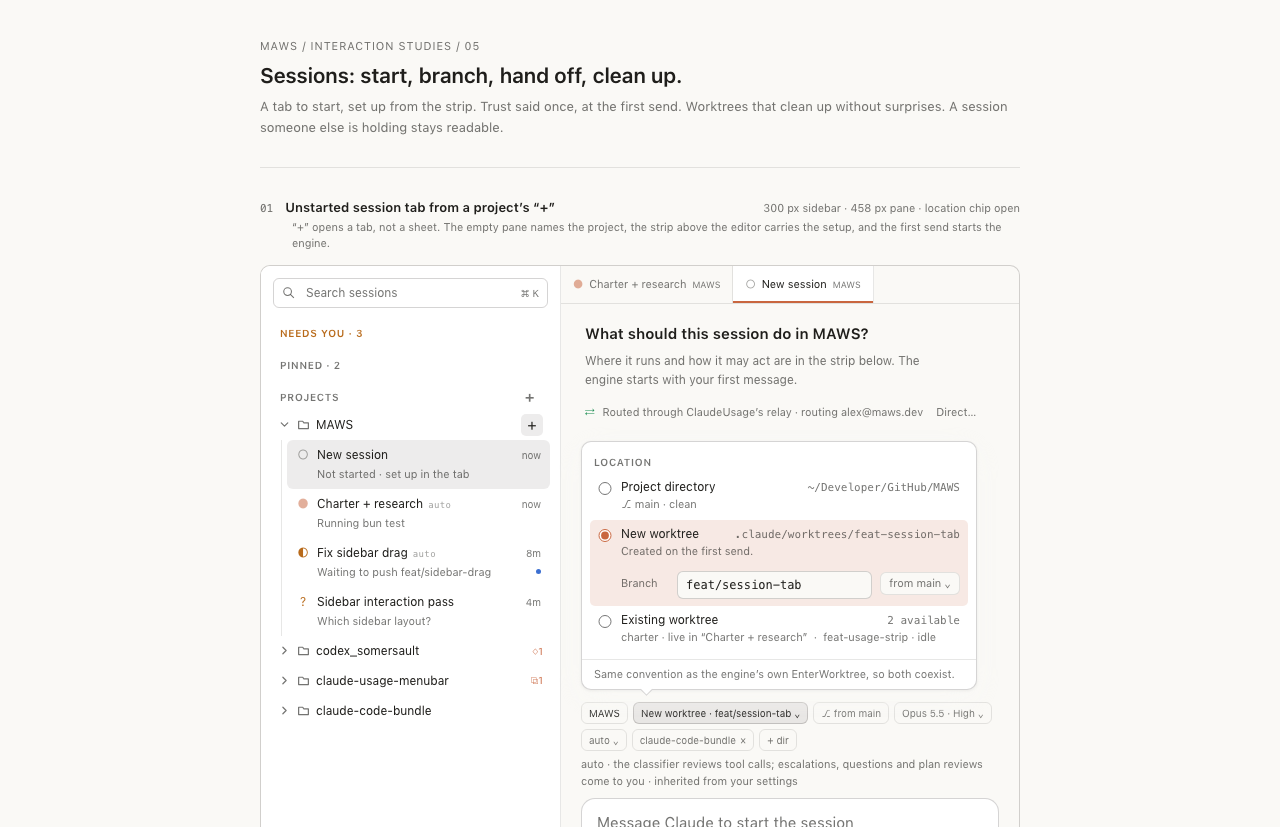
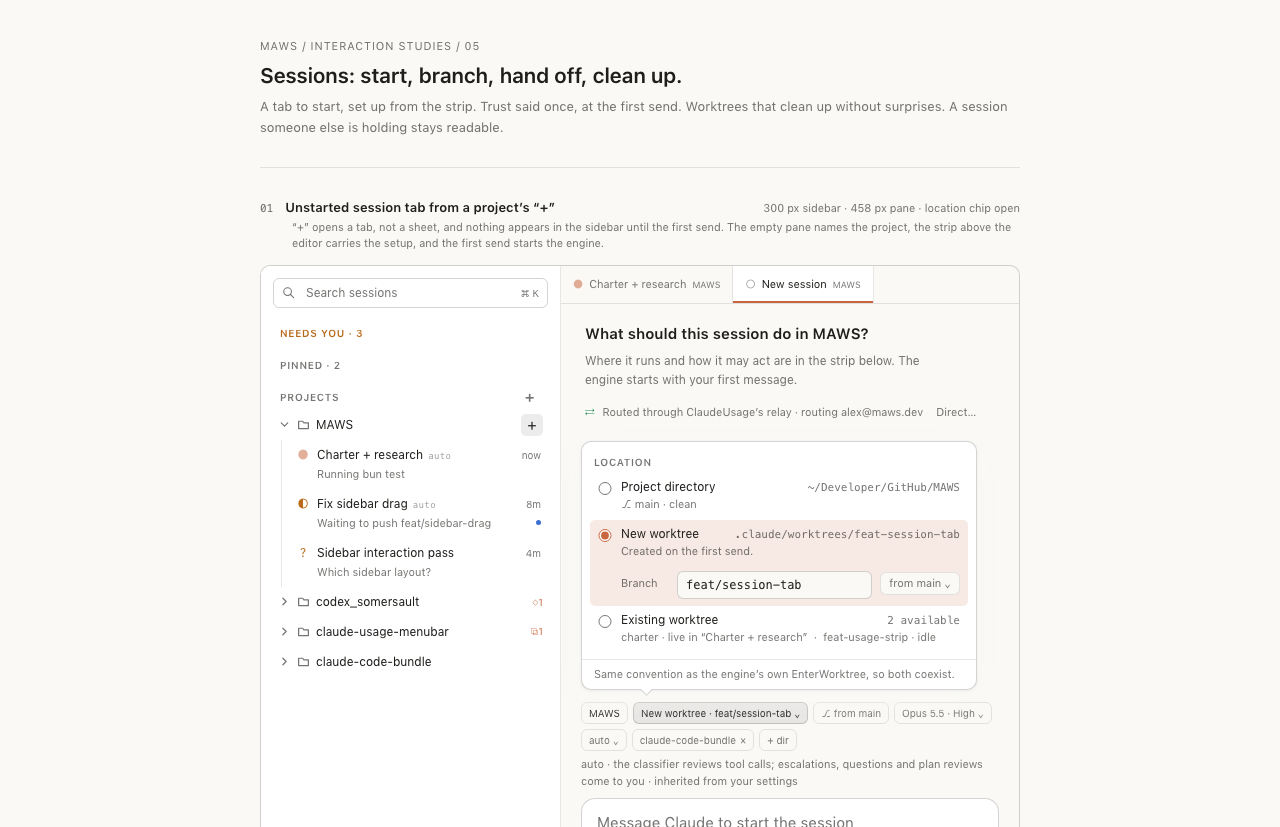
Mockup 05: unstarted session is a tab only, no sidebar row until the first send

diff --git a/mockups/05-sessions.html b/mockups/05-sessions.html
@@ -284,7 +284,7 @@ figcaption .dimension { margin-left: auto; color: var(--fg-muted); font-size: 11
 
 <figure class="vignette" id="new-session">
  <figcaption><span class="number">01</span><h2>Unstarted session tab from a project’s “+”</h2><span class="dimension">300 px sidebar · 458 px pane · location chip open</span></figcaption>
- <p class="rationale">“+” opens a tab, not a sheet. The empty pane names the project, the strip above the editor carries the setup, and the first send starts the engine.</p>
+ <p class="rationale">“+” opens a tab, not a sheet, and nothing appears in the sidebar until the first send. The empty pane names the project, the strip above the editor carries the setup, and the first send starts the engine.</p>
  <div class="frame tab-frame">
   <aside class="sidebar" aria-label="Session sidebar">
    <label class="search"><svg viewBox="0 0 20 20" fill="none" stroke="currentColor" stroke-width="1.5" aria-hidden="true"><use href="#search"/></svg><input type="search" aria-label="Search sessions" placeholder="Search sessions"><kbd>⌘ K</kbd></label>
@@ -293,7 +293,6 @@ figcaption .dimension { margin-left: auto; color: var(--fg-muted); font-size: 11
    <div class="section-heading label" style="margin-top:10px">Projects <span class="icon" aria-hidden="true">+</span></div>
    <div class="project-head"><svg><use href="#down"/></svg><svg><use href="#folder"/></svg><span class="name">MAWS</span><span class="icon pressed" aria-label="New session in MAWS (opened)">+</span></div>
    <div class="project-sessions">
-    <div class="session selected" aria-current="page"><span class="session-glyph g-idle" aria-label="Not started">○</span><span><span class="session-title"><span class="truncate">New session</span></span><span class="session-sub">Not started · set up in the tab</span></span><span class="session-age">now</span></div>
     <div class="session"><span class="session-glyph g-working" aria-label="Working">●</span><span><span class="session-title"><span class="truncate">Charter + research</span><span class="provenance" title="Title generated by the engine">auto</span></span><span class="session-sub">Running bun test</span></span><span class="session-age">now</span></div>
     <div class="session"><span class="session-glyph g-needs" aria-label="Needs approval">◐</span><span><span class="session-title"><span class="truncate">Fix sidebar drag</span><span class="provenance" title="Title generated by the engine">auto</span></span><span class="session-sub">Waiting to push feat/sidebar-drag</span></span><span class="session-age">8m<span class="unread" aria-label="Unread"></span></span></div>
     <div class="session"><span class="session-glyph g-question" aria-label="Question">?</span><span><span class="session-title"><span class="truncate">Sidebar interaction pass</span></span><span class="session-sub">Which sidebar layout?</span></span><span class="session-age">4m</span></div>
